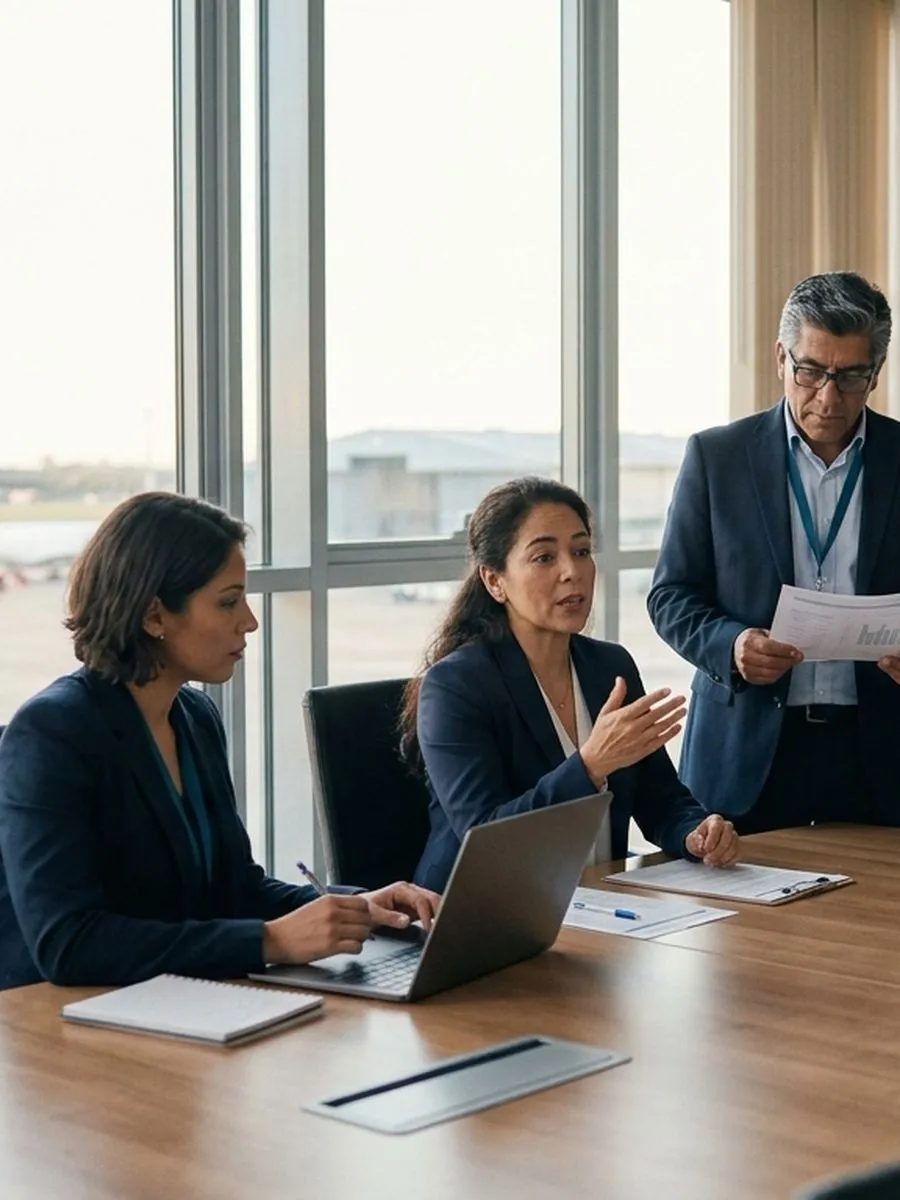
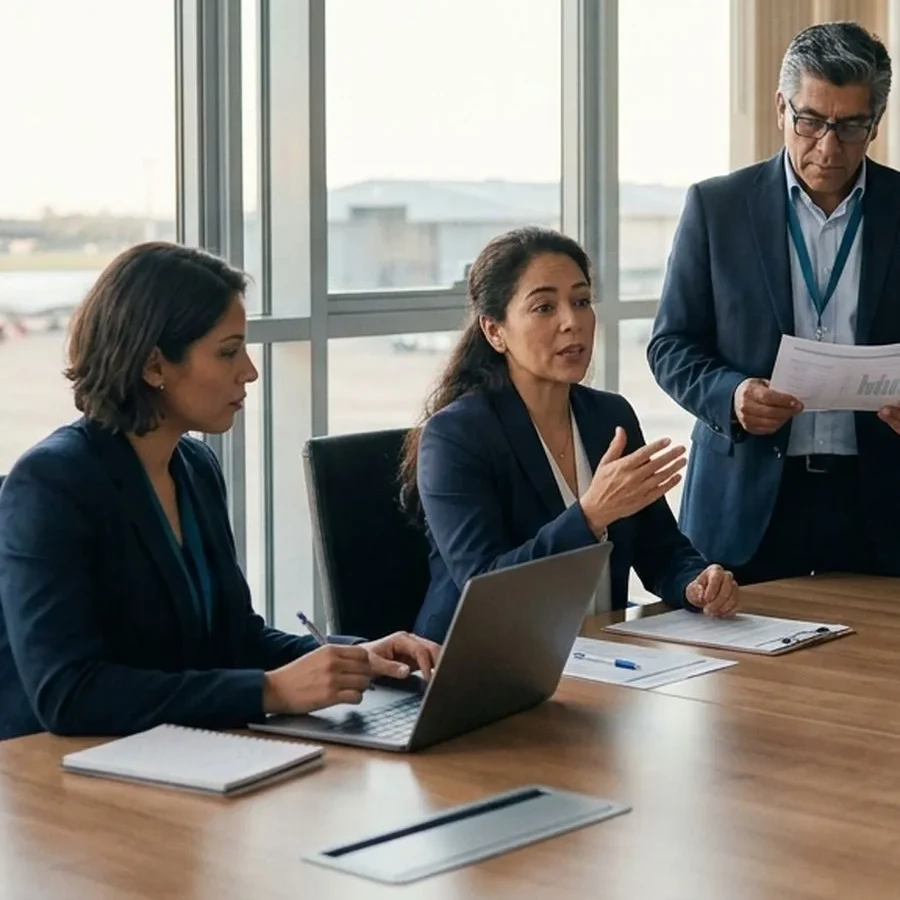
Fix mobile nav active-page highlight and Our Experts mobile hero photo
Mobile nav: the current page's nav link was marked active only via an
inline color:var(--brand-red) style, but the mobile drawer's
"header nav a{ color:var(--on-obsidian) !important; }" rule (needed to
make every link white on the dark drawer) silently overrode it, so no
page ever showed as selected on mobile. Added aria-current="page" to
each page's active nav link (16 files) — doubles as an accessibility
improvement — plus a mobile rule that restores brand-red specifically
for that link.

Our Experts mobile hero photo: the crop showed way too much empty
window/ceiling space above the group and left the third person pinned
against the right edge, reading as badly off-center. Re-cropped
images/experts-hero-mobile.webp tighter around the three people and
adjusted background-position so the group is centered and fully
visible instead of lopsided.

diff --git a/style.css b/style.css
@@ -464,6 +464,7 @@
       html.nav-open #nav-panel{ transform:translateX(0); }
       header nav{ flex-direction:column; align-items:center !important; gap:22px !important; width:100%; }
       header nav a{ font-size:19px !important; color:var(--on-obsidian) !important; }
+      header nav a[aria-current="page"]{ color:var(--brand-red) !important; }
       #header-actions{ flex-direction:column; align-items:center !important; gap:20px !important; width:100%; }
       #header-actions a.btn-obsidian{ background:var(--brand-red) !important; }
 
@@ -481,7 +482,7 @@
       /* ---- imagery: swap to the tighter mobile crops ---- */
       .hero-photo{ background-image:url('images/hero-team-mobile.webp'); background-position:center 15%; }
       .services-hero-photo{ background-image:url('images/services-hero-mobile.webp'); background-position:center 15%; }
-      .experts-hero-photo{ background-image:url('images/experts-hero-mobile.webp'); background-position:center 12%; }
+      .experts-hero-photo{ background-image:url('images/experts-hero-mobile.webp'); background-position:center 25%; }
       .privacy-hero-photo{ background-image:url('images/privacy-hero-mobile.webp'); background-position:center 15%; }
       .hero-parallax{ background-image:url('images/hero-team-mobile.webp'); background-position:center 15%; }
       .talks-bg{ background-image:url('images/aviatdo-talks-bg-mobile.webp'); background-position:24% 30%; }

diff --git a/services-es.html b/services-es.html
@@ -23,7 +23,7 @@
     <a class="btn-focus" href="index-es.html" aria-label="AviatDo inicio"><img class="header-logo" src="images/aviatdo-logo-light.svg" data-light="images/aviatdo-logo-light.svg" data-dark="images/aviatdo-logo.svg" width="899" height="512" alt="AviatDo" style="height:38px; width:auto; display:block;"></a>
     <div id="nav-panel">
       <nav style="display:flex; align-items:center; gap:20px; flex-wrap:wrap;">
-        <a class="btn-focus ghost-link" href="services-es.html" style="color:var(--brand-red); font-size:16px;">Servicios</a>
+        <a class="btn-focus ghost-link" aria-current="page" href="services-es.html" style="color:var(--brand-red); font-size:16px;">Servicios</a>
         <a class="btn-focus ghost-link" href="experts-es.html" style="color:var(--nav-ink); font-size:16px;">Nuestros Expertos</a>
         <a class="btn-focus ghost-link" href="index-es.html#" style="color:var(--nav-ink); font-size:16px;">Nosotros</a>
         <a class="btn-focus ghost-link" href="index-es.html#talks" style="color:var(--nav-ink); font-size:16px;">AviatDo Talks</a>

diff --git a/services.html b/services.html
@@ -32,7 +32,7 @@
     <a class="btn-focus" href="index.html" aria-label="AviatDo home"><img class="header-logo" src="images/aviatdo-logo-light.svg" data-light="images/aviatdo-logo-light.svg" data-dark="images/aviatdo-logo.svg" width="899" height="512" alt="AviatDo" style="height:38px; width:auto; display:block;"></a>
     <div id="nav-panel">
       <nav style="display:flex; align-items:center; gap:20px; flex-wrap:wrap;">
-        <a class="btn-focus ghost-link" href="services.html" style="color:var(--brand-red); font-size:16px;">Services</a>
+        <a class="btn-focus ghost-link" aria-current="page" href="services.html" style="color:var(--brand-red); font-size:16px;">Services</a>
         <a class="btn-focus ghost-link" href="experts.html" style="color:var(--nav-ink); font-size:16px;">Our Experts</a>
         <a class="btn-focus ghost-link" href="index.html#" style="color:var(--nav-ink); font-size:16px;">About</a>
         <a class="btn-focus ghost-link" href="index.html#talks" style="color:var(--nav-ink); font-size:16px;">AviatDo Talks</a>

diff --git a/aviatdo-360-es.html b/aviatdo-360-es.html
@@ -27,7 +27,7 @@
         <a class="btn-focus ghost-link" href="experts-es.html" style="color:var(--nav-ink); font-size:16px;">Nuestros Expertos</a>
         <a class="btn-focus ghost-link" href="index-es.html#" style="color:var(--nav-ink); font-size:16px;">Nosotros</a>
         <a class="btn-focus ghost-link" href="index-es.html#talks" style="color:var(--nav-ink); font-size:16px;">AviatDo Talks</a>
-        <a class="btn-focus ghost-link" href="aviatdo-360-es.html" style="color:var(--brand-red); font-size:16px;">AviatDo 360°</a>
+        <a class="btn-focus ghost-link" aria-current="page" href="aviatdo-360-es.html" style="color:var(--brand-red); font-size:16px;">AviatDo 360°</a>
         <a class="btn-focus ghost-link" href="index-es.html#partners" style="color:var(--nav-ink); font-size:16px;">Aliados</a>
         <a class="btn-focus ghost-link" href="index-es.html#" style="color:var(--nav-ink); font-size:16px;">Recursos</a>
       </nav>

diff --git a/aviatdo-360-partner-es.html b/aviatdo-360-partner-es.html
@@ -27,7 +27,7 @@
         <a class="btn-focus ghost-link" href="experts-es.html" style="color:var(--nav-ink); font-size:16px;">Nuestros Expertos</a>
         <a class="btn-focus ghost-link" href="index-es.html#" style="color:var(--nav-ink); font-size:16px;">Nosotros</a>
         <a class="btn-focus ghost-link" href="index-es.html#talks" style="color:var(--nav-ink); font-size:16px;">AviatDo Talks</a>
-        <a class="btn-focus ghost-link" href="aviatdo-360-es.html" style="color:var(--brand-red); font-size:16px;">AviatDo 360°</a>
+        <a class="btn-focus ghost-link" aria-current="page" href="aviatdo-360-es.html" style="color:var(--brand-red); font-size:16px;">AviatDo 360°</a>
         <a class="btn-focus ghost-link" href="index-es.html#partners" style="color:var(--nav-ink); font-size:16px;">Aliados</a>
         <a class="btn-focus ghost-link" href="index-es.html#" style="color:var(--nav-ink); font-size:16px;">Recursos</a>
       </nav>

diff --git a/aviatdo-360-program-es.html b/aviatdo-360-program-es.html
@@ -27,7 +27,7 @@
         <a class="btn-focus ghost-link" href="experts-es.html" style="color:var(--nav-ink); font-size:16px;">Nuestros Expertos</a>
         <a class="btn-focus ghost-link" href="index-es.html#" style="color:var(--nav-ink); font-size:16px;">Nosotros</a>
         <a class="btn-focus ghost-link" href="index-es.html#talks" style="color:var(--nav-ink); font-size:16px;">AviatDo Talks</a>
-        <a class="btn-focus ghost-link" href="aviatdo-360-es.html" style="color:var(--brand-red); font-size:16px;">AviatDo 360°</a>
+        <a class="btn-focus ghost-link" aria-current="page" href="aviatdo-360-es.html" style="color:var(--brand-red); font-size:16px;">AviatDo 360°</a>
         <a class="btn-focus ghost-link" href="index-es.html#partners" style="color:var(--nav-ink); font-size:16px;">Aliados</a>
         <a class="btn-focus ghost-link" href="index-es.html#" style="color:var(--nav-ink); font-size:16px;">Recursos</a>
       </nav>

diff --git a/aviatdo-360-register-es.html b/aviatdo-360-register-es.html
@@ -27,7 +27,7 @@
         <a class="btn-focus ghost-link" href="experts-es.html" style="color:var(--nav-ink); font-size:16px;">Nuestros Expertos</a>
         <a class="btn-focus ghost-link" href="index-es.html#" style="color:var(--nav-ink); font-size:16px;">Nosotros</a>
         <a class="btn-focus ghost-link" href="index-es.html#talks" style="color:var(--nav-ink); font-size:16px;">AviatDo Talks</a>
-        <a class="btn-focus ghost-link" href="aviatdo-360-es.html" style="color:var(--brand-red); font-size:16px;">AviatDo 360°</a>
+        <a class="btn-focus ghost-link" aria-current="page" href="aviatdo-360-es.html" style="color:var(--brand-red); font-size:16px;">AviatDo 360°</a>
         <a class="btn-focus ghost-link" href="index-es.html#partners" style="color:var(--nav-ink); font-size:16px;">Aliados</a>
         <a class="btn-focus ghost-link" href="index-es.html#" style="color:var(--nav-ink); font-size:16px;">Recursos</a>
       </nav>

diff --git a/aviatdo-360-speakers-es.html b/aviatdo-360-speakers-es.html
@@ -27,7 +27,7 @@
         <a class="btn-focus ghost-link" href="experts-es.html" style="color:var(--nav-ink); font-size:16px;">Nuestros Expertos</a>
         <a class="btn-focus ghost-link" href="index-es.html#" style="color:var(--nav-ink); font-size:16px;">Nosotros</a>
         <a class="btn-focus ghost-link" href="index-es.html#talks" style="color:var(--nav-ink); font-size:16px;">AviatDo Talks</a>
-        <a class="btn-focus ghost-link" href="aviatdo-360-es.html" style="color:var(--brand-red); font-size:16px;">AviatDo 360°</a>
+        <a class="btn-focus ghost-link" aria-current="page" href="aviatdo-360-es.html" style="color:var(--brand-red); font-size:16px;">AviatDo 360°</a>
         <a class="btn-focus ghost-link" href="index-es.html#partners" style="color:var(--nav-ink); font-size:16px;">Aliados</a>
         <a class="btn-focus ghost-link" href="index-es.html#" style="color:var(--nav-ink); font-size:16px;">Recursos</a>
       </nav>

diff --git a/aviatdo-360-venue-es.html b/aviatdo-360-venue-es.html
@@ -27,7 +27,7 @@
         <a class="btn-focus ghost-link" href="experts-es.html" style="color:var(--nav-ink); font-size:16px;">Nuestros Expertos</a>
         <a class="btn-focus ghost-link" href="index-es.html#" style="color:var(--nav-ink); font-size:16px;">Nosotros</a>
         <a class="btn-focus ghost-link" href="index-es.html#talks" style="color:var(--nav-ink); font-size:16px;">AviatDo Talks</a>
-        <a class="btn-focus ghost-link" href="aviatdo-360-es.html" style="color:var(--brand-red); font-size:16px;">AviatDo 360°</a>
+        <a class="btn-focus ghost-link" aria-current="page" href="aviatdo-360-es.html" style="color:var(--brand-red); font-size:16px;">AviatDo 360°</a>
         <a class="btn-focus ghost-link" href="index-es.html#partners" style="color:var(--nav-ink); font-size:16px;">Aliados</a>
         <a class="btn-focus ghost-link" href="index-es.html#" style="color:var(--nav-ink); font-size:16px;">Recursos</a>
       </nav>

diff --git a/aviatdo-360-partner.html b/aviatdo-360-partner.html
@@ -27,7 +27,7 @@
         <a class="btn-focus ghost-link" href="experts.html" style="color:var(--nav-ink); font-size:16px;">Our Experts</a>
         <a class="btn-focus ghost-link" href="index.html#" style="color:var(--nav-ink); font-size:16px;">About</a>
         <a class="btn-focus ghost-link" href="index.html#talks" style="color:var(--nav-ink); font-size:16px;">AviatDo Talks</a>
-        <a class="btn-focus ghost-link" href="aviatdo-360.html" style="color:var(--brand-red); font-size:16px;">AviatDo 360°</a>
+        <a class="btn-focus ghost-link" aria-current="page" href="aviatdo-360.html" style="color:var(--brand-red); font-size:16px;">AviatDo 360°</a>
         <a class="btn-focus ghost-link" href="index.html#partners" style="color:var(--nav-ink); font-size:16px;">Partners</a>
         <a class="btn-focus ghost-link" href="index.html#" style="color:var(--nav-ink); font-size:16px;">Resources</a>
       </nav>

diff --git a/aviatdo-360-program.html b/aviatdo-360-program.html
@@ -27,7 +27,7 @@
         <a class="btn-focus ghost-link" href="experts.html" style="color:var(--nav-ink); font-size:16px;">Our Experts</a>
         <a class="btn-focus ghost-link" href="index.html#" style="color:var(--nav-ink); font-size:16px;">About</a>
         <a class="btn-focus ghost-link" href="index.html#talks" style="color:var(--nav-ink); font-size:16px;">AviatDo Talks</a>
-        <a class="btn-focus ghost-link" href="aviatdo-360.html" style="color:var(--brand-red); font-size:16px;">AviatDo 360°</a>
+        <a class="btn-focus ghost-link" aria-current="page" href="aviatdo-360.html" style="color:var(--brand-red); font-size:16px;">AviatDo 360°</a>
         <a class="btn-focus ghost-link" href="index.html#partners" style="color:var(--nav-ink); font-size:16px;">Partners</a>
         <a class="btn-focus ghost-link" href="index.html#" style="color:var(--nav-ink); font-size:16px;">Resources</a>
       </nav>

diff --git a/aviatdo-360-register.html b/aviatdo-360-register.html
@@ -27,7 +27,7 @@
         <a class="btn-focus ghost-link" href="experts.html" style="color:var(--nav-ink); font-size:16px;">Our Experts</a>
         <a class="btn-focus ghost-link" href="index.html#" style="color:var(--nav-ink); font-size:16px;">About</a>
         <a class="btn-focus ghost-link" href="index.html#talks" style="color:var(--nav-ink); font-size:16px;">AviatDo Talks</a>
-        <a class="btn-focus ghost-link" href="aviatdo-360.html" style="color:var(--brand-red); font-size:16px;">AviatDo 360°</a>
+        <a class="btn-focus ghost-link" aria-current="page" href="aviatdo-360.html" style="color:var(--brand-red); font-size:16px;">AviatDo 360°</a>
         <a class="btn-focus ghost-link" href="index.html#partners" style="color:var(--nav-ink); font-size:16px;">Partners</a>
         <a class="btn-focus ghost-link" href="index.html#" style="color:var(--nav-ink); font-size:16px;">Resources</a>
       </nav>
